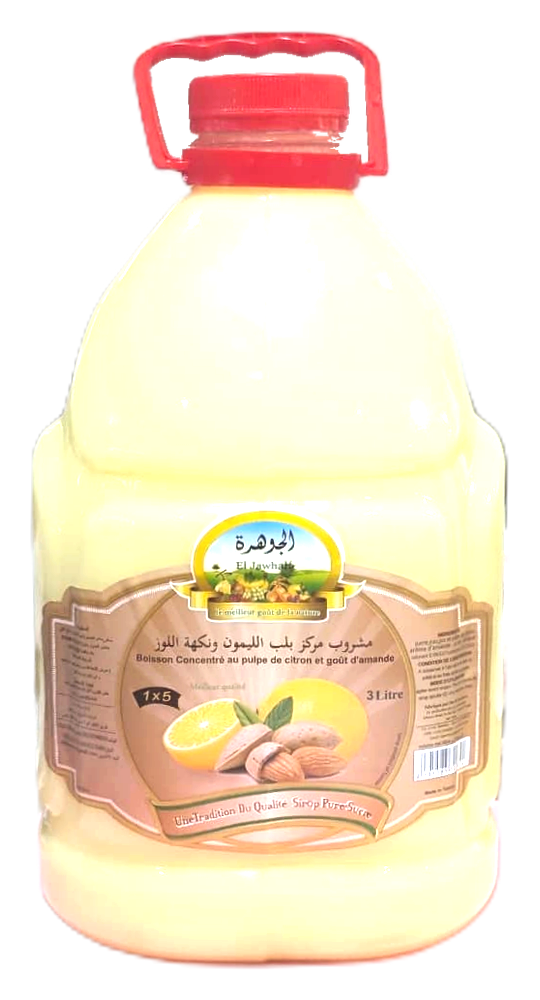
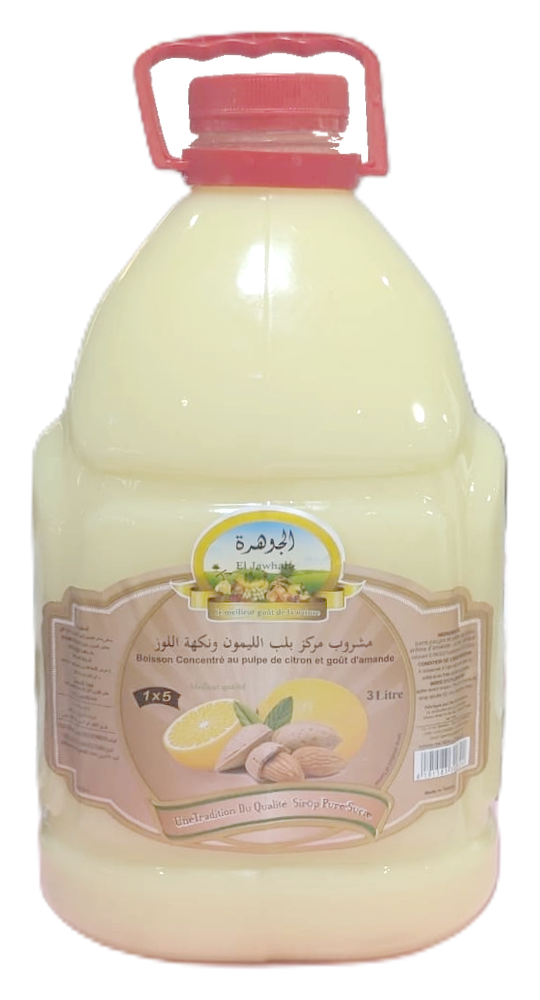
Brighter Citron & amande 3L; revalidate photos so edits show immediately

diff --git a/server/app.js b/server/app.js
@@ -93,12 +93,20 @@ function serveStatic(req, res, pathname, adminEnabled) {
   const allowed = (publicRootFiles.has(file) || publicDirs.some(dir => file.startsWith(dir))) && (adminEnabled || !adminPanelFiles.has(file));
   const full = path.resolve(root, file);
   if (!allowed || file.includes('..') || !full.startsWith(root + path.sep)) return send(res, 404, 'Not found', { 'Content-Type': 'text/plain' });
+  fs.stat(full, (statErr, stat) => {
+    if (statErr || !stat.isFile()) return send(res, 404, 'Not found', { 'Content-Type': 'text/plain' });
+    // Images are revalidated so edited photos show up immediately; unchanged ones answer 304.
+    const etag = `"${stat.size.toString(16)}-${Math.floor(stat.mtimeMs).toString(16)}"`;
+    const ext = path.extname(full).toLowerCase();
+    if (req.headers['if-none-match'] === etag) {
+      res.writeHead(304, { ETag: etag, 'Cache-Control': 'no-cache' });
+      return res.end();
+    }
   fs.readFile(full, (err, data) => {
     if (err) return send(res, 404, 'Not found', { 'Content-Type': 'text/plain' });
-    const ext = path.extname(full).toLowerCase();
-    const cache = file.startsWith('assets/products/') || file.startsWith('assets/hero/') || file === 'assets/logo.png' ? 'public, max-age=86400' : 'no-cache';
-    res.writeHead(200, { 'Content-Type': types[ext] || 'application/octet-stream', 'Cache-Control': cache });
+    res.writeHead(200, { 'Content-Type': types[ext] || 'application/octet-stream', 'Cache-Control': 'no-cache', ETag: etag });
     res.end(req.method === 'HEAD' ? undefined : data);
+  });
   });
 }
 

diff --git a/sw.js b/sw.js
@@ -1,5 +1,5 @@
 // Installable app: the storefront and product photos work offline; API calls (prices, stock, orders) always go to the network.
-const VERSION = 'ej-v31';
+const VERSION = 'ej-v32';
 const SHELL = ['/', '/styles.css', '/brand.css', '/cutouts.css', '/photography.css', '/store.css', '/retailer-data.js', '/photo-overrides.js', '/catalog.js', '/lang-en.js', '/app.js', '/store.js', '/assets/logo.png', '/assets/logo-perla.png', '/assets/favicon.png', '/manifest.webmanifest'];
 
 self.addEventListener('install', event => {
